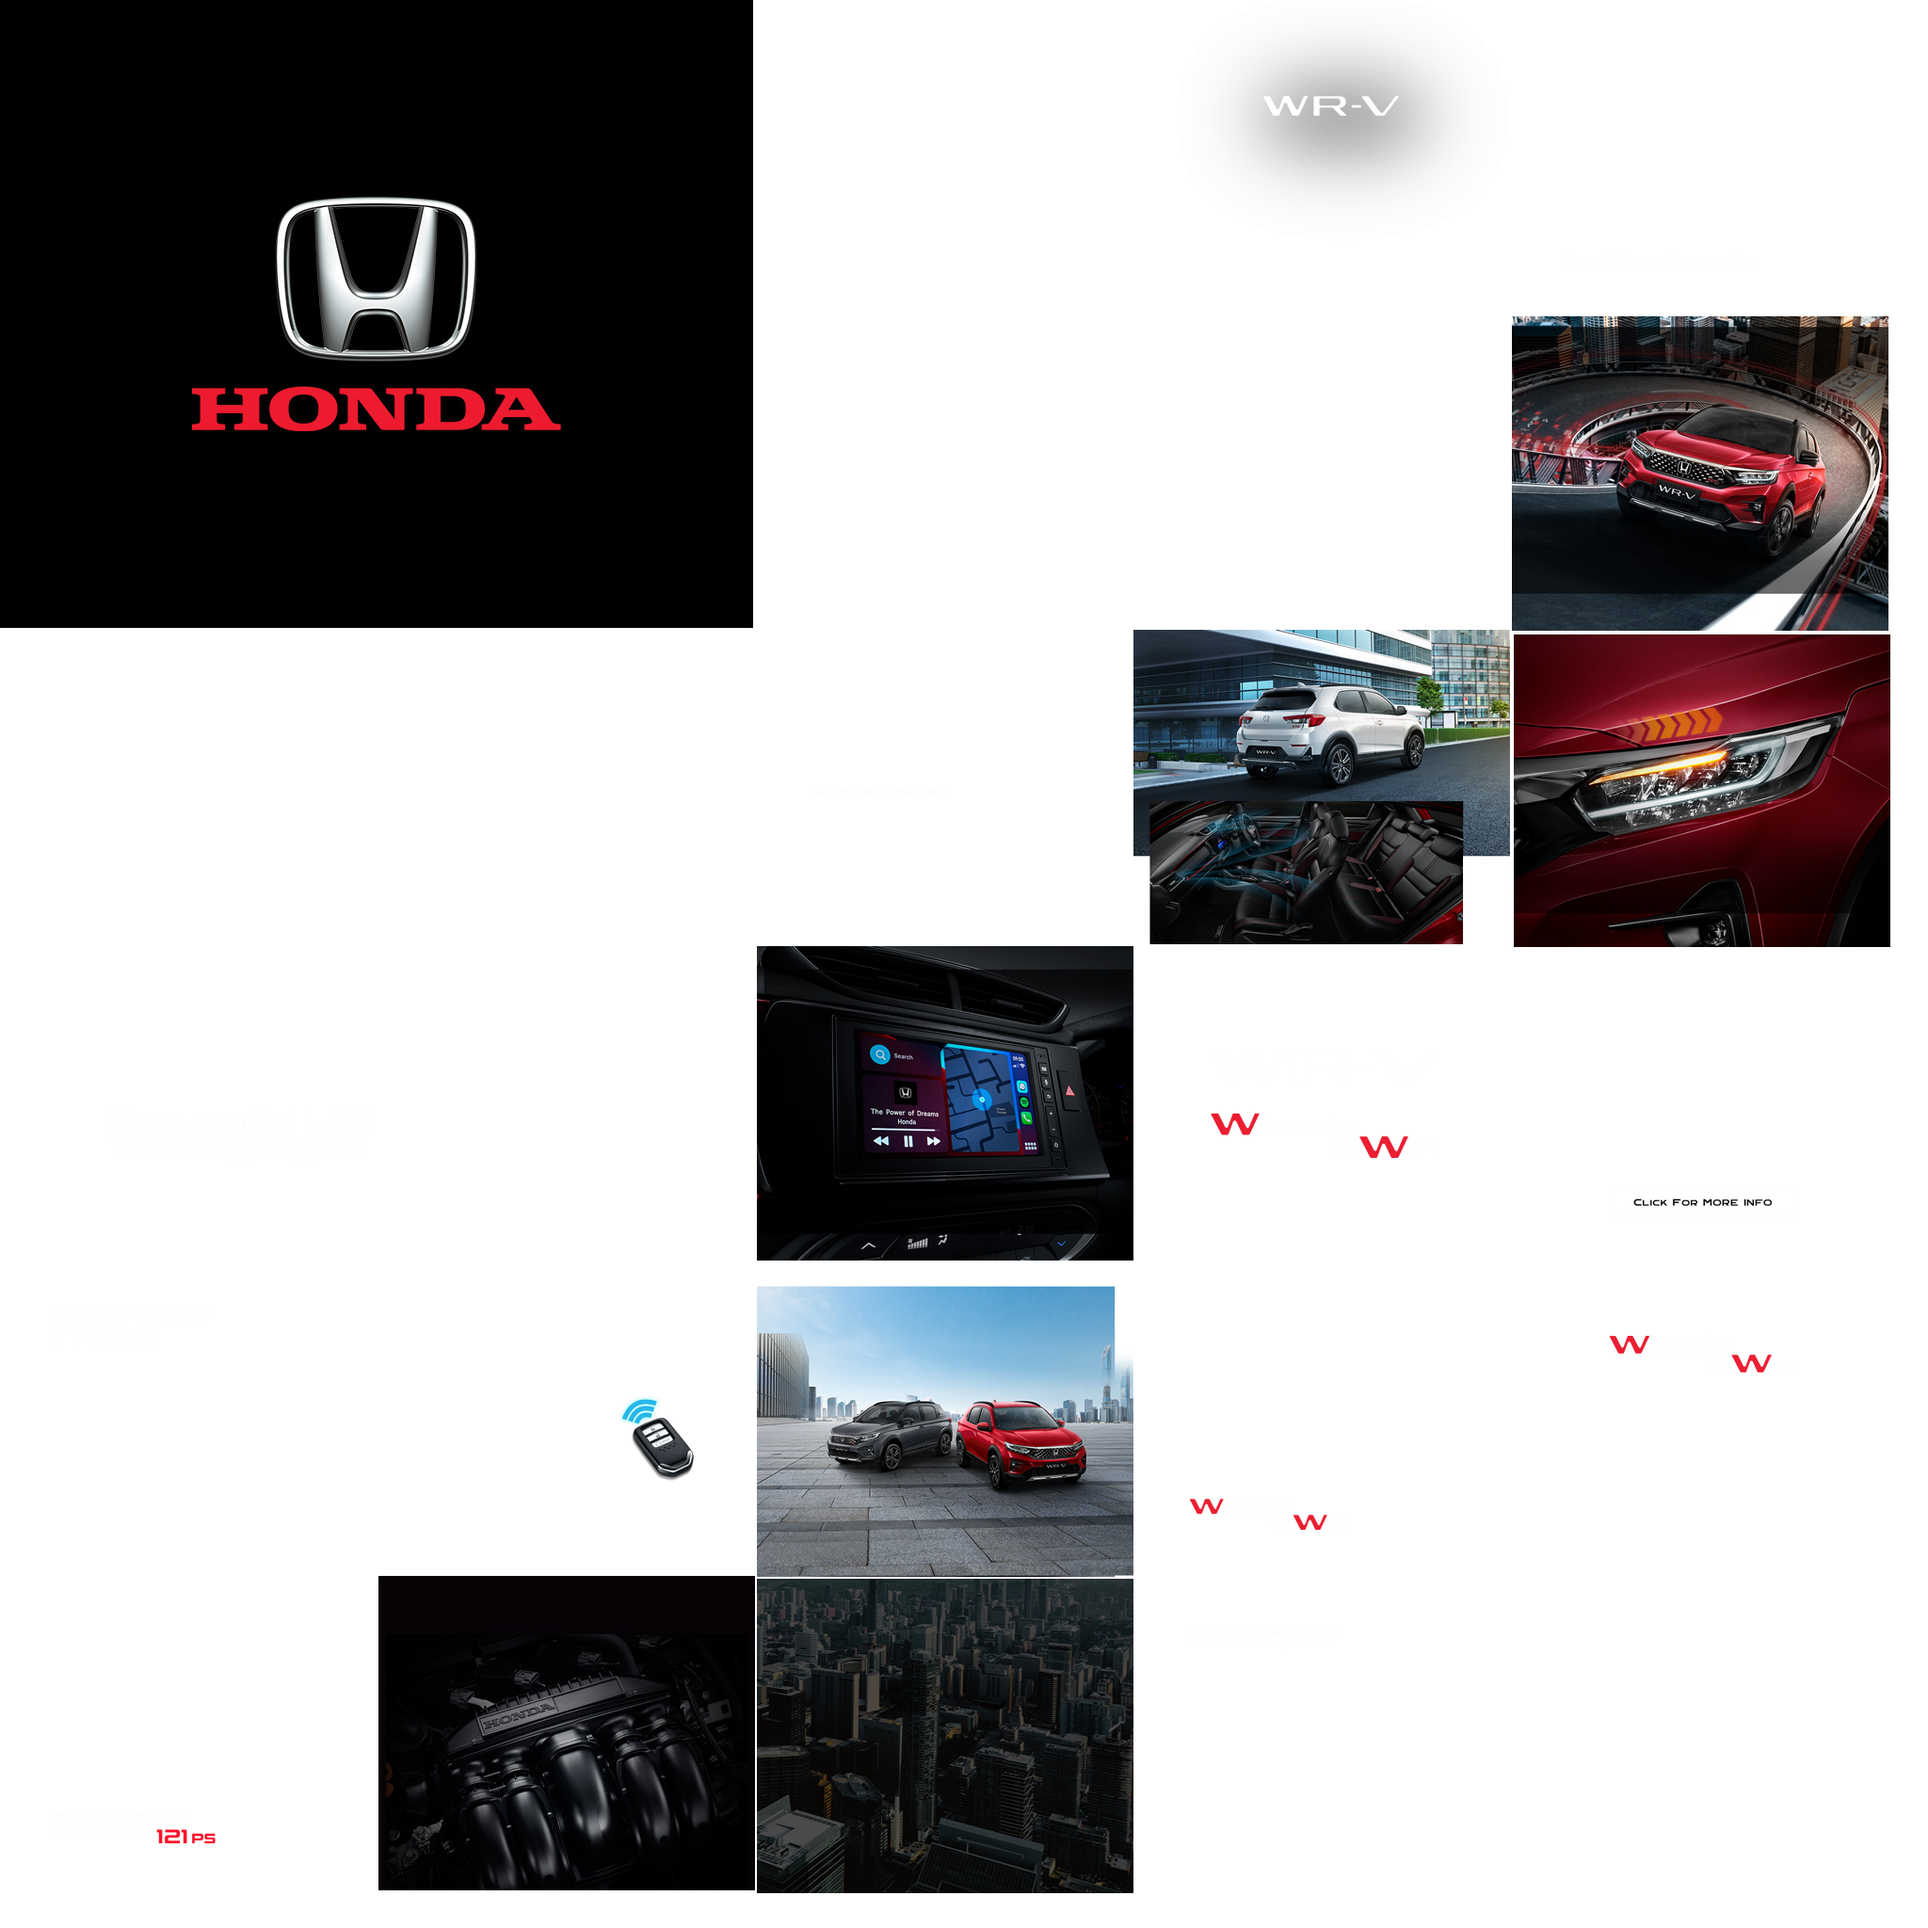
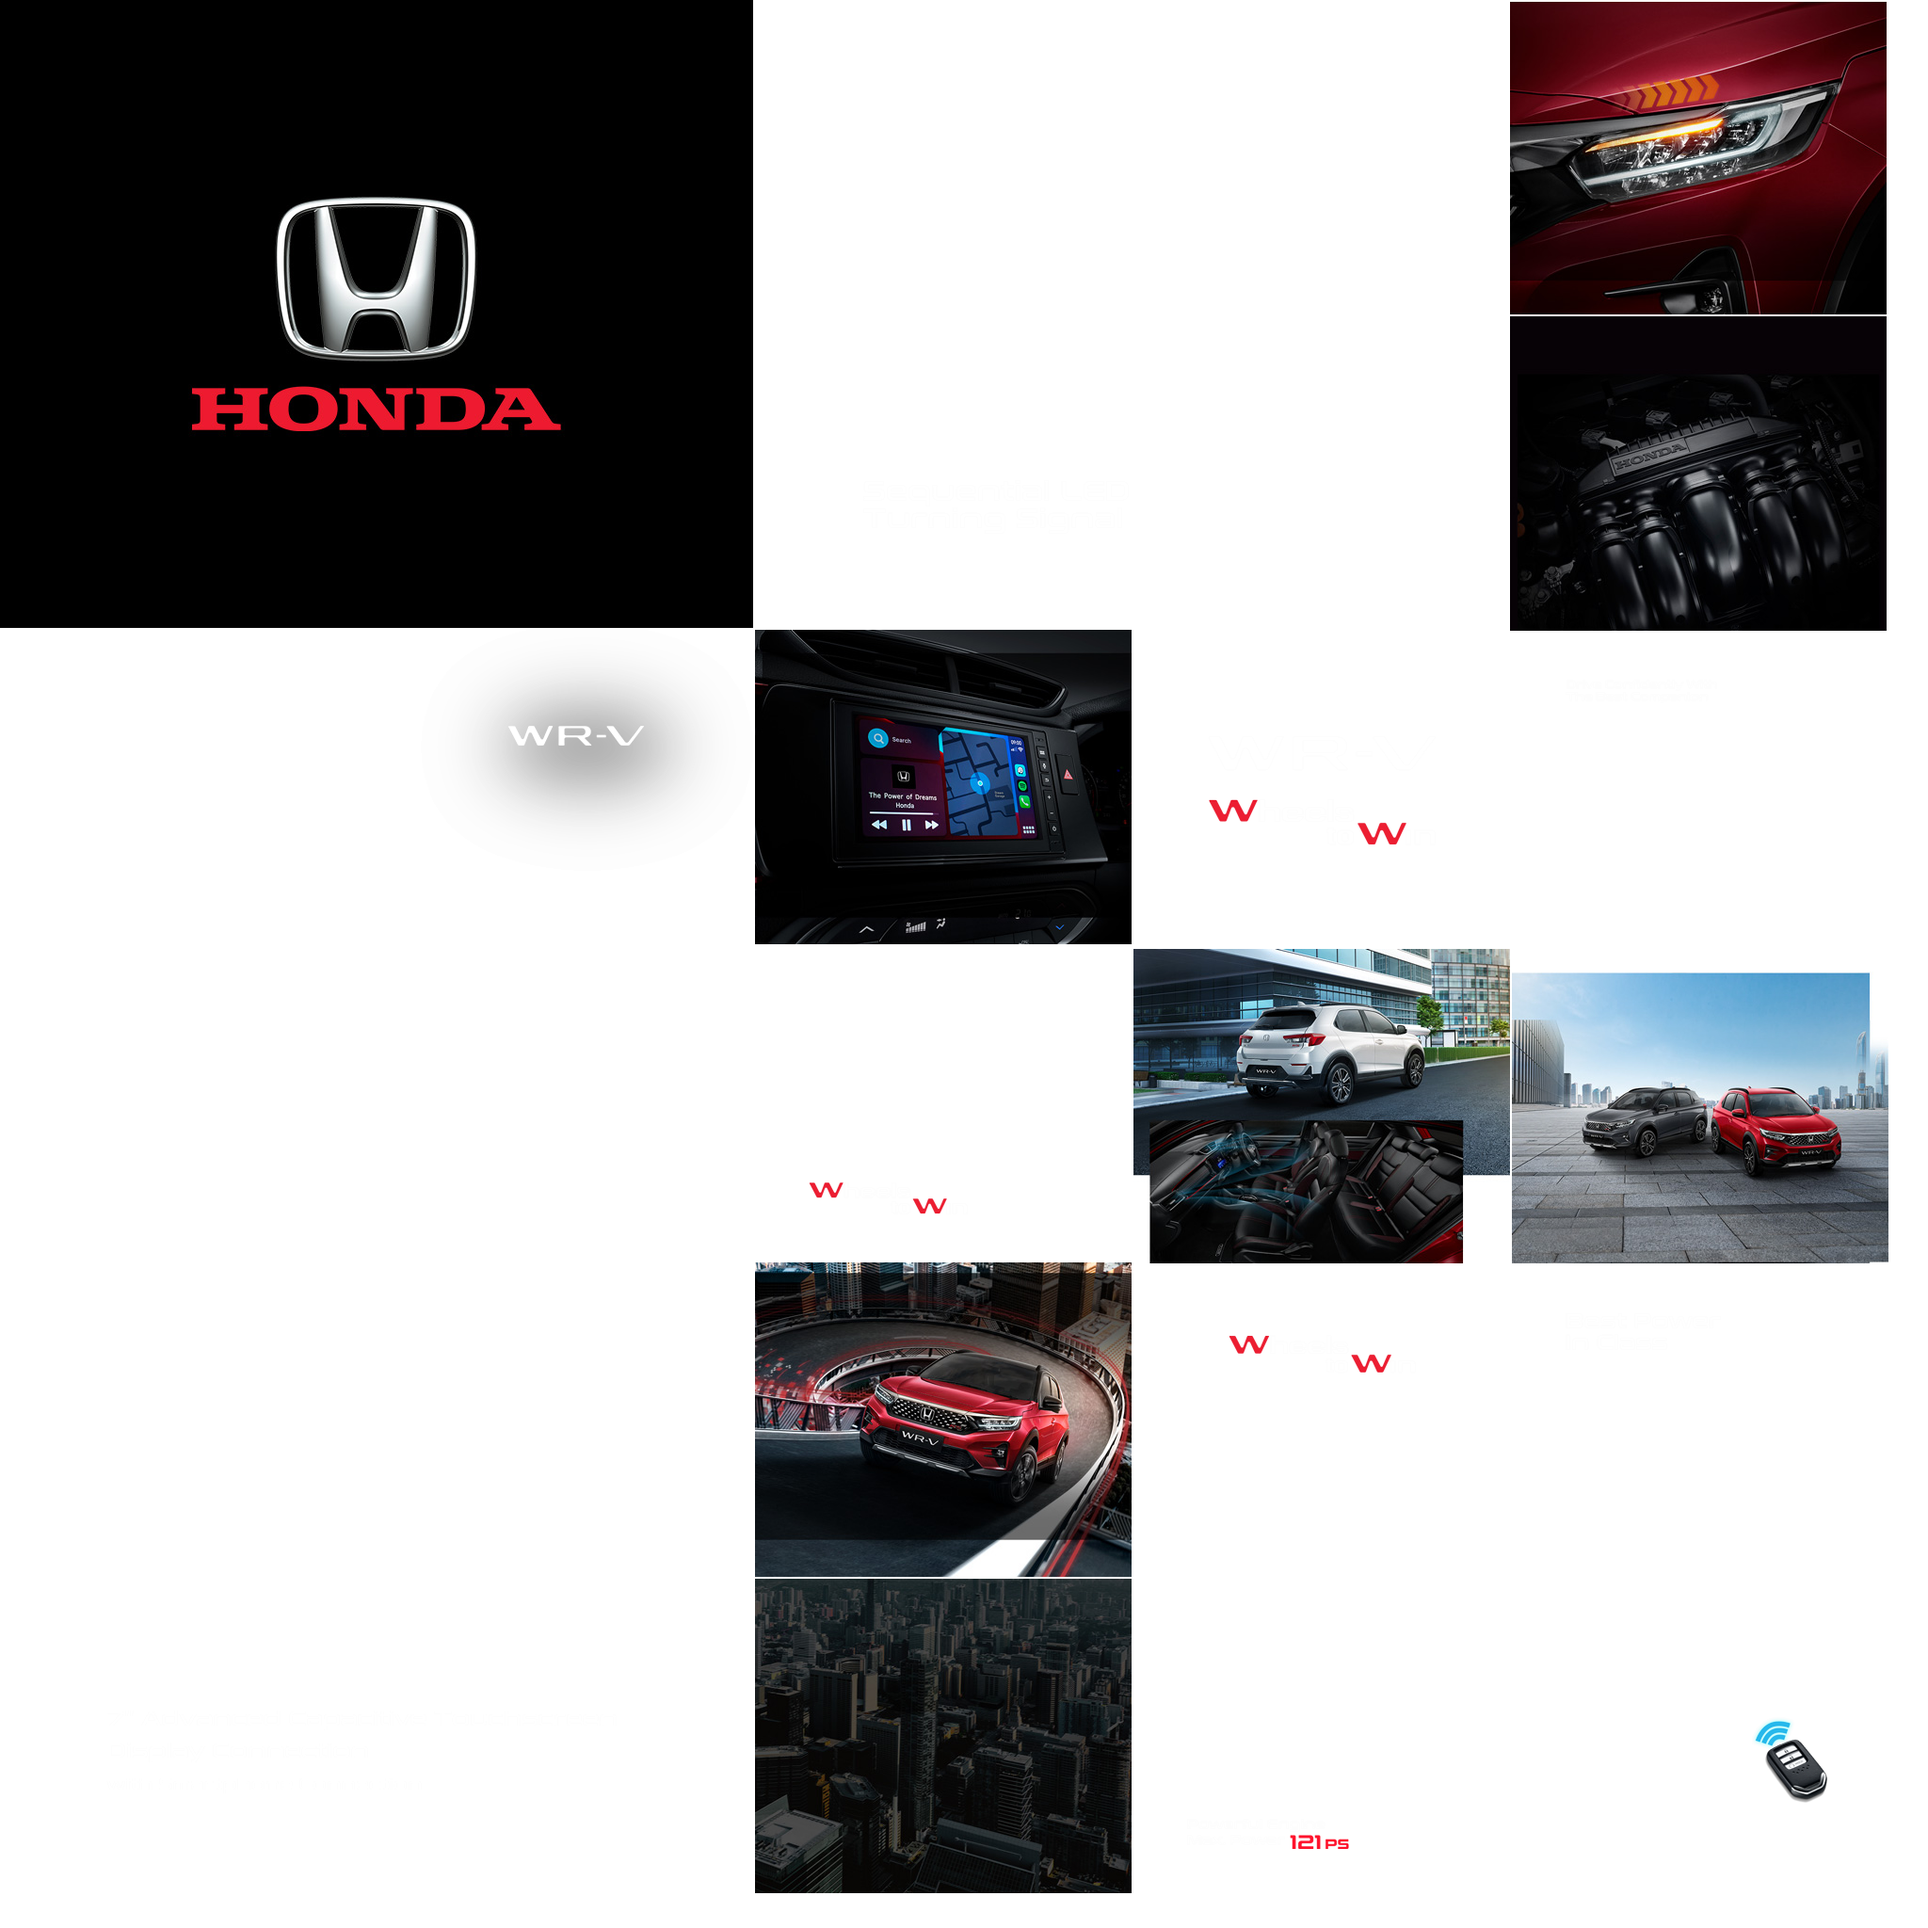
wad

diff --git a/m.idntimes/inarticle/honda/300x250/index.js b/m.idntimes/inarticle/honda/300x250/index.js
@@ -3,7 +3,8 @@
 var p; // shortcut to reference prototypes
 var lib={};var ss={};var img={};
 lib.ssMetadata = [
-		{name:"index_atlas_", frames: [[804,1677,400,334],[1606,336,400,334],[1608,672,400,334],[402,1674,400,334],[1204,669,400,334],[804,1005,400,334],[804,1341,400,334],[0,0,800,667],[1206,1005,400,334],[1206,1341,400,334],[1206,1677,400,334],[0,669,800,667],[0,1338,400,334],[0,1674,400,334],[402,1338,400,334],[802,669,400,334],[1604,0,400,334],[1608,1344,400,334],[1608,1008,400,334],[802,0,800,667]]}
+		{name:"index_atlas_", frames: [[802,1677,400,334],[802,1341,400,334],[1604,0,400,334],[1604,336,400,334],[1204,1008,400,334],[802,669,400,334],[1606,1008,400,334],[0,0,800,667],[1204,672,400,334],[802,1005,400,334],[1606,672,400,334],[802,0,800,667],[1606,1344,400,334],[1204,1680,400,334],[1606,1680,400,334],[0,1338,800,667],[1204,1344,400,334],[0,669,800,667]]},
+		{name:"index_atlas_2", frames: [[0,336,400,334],[0,0,400,334]]}
 ];
 
 
@@ -117,36 +118,36 @@ lib.ssMetadata = [
 
 
 (lib.isi52 = function() {
-	this.initialize(ss["index_atlas_"]);
-	this.gotoAndStop(15);
+	this.initialize(ss["index_atlas_2"]);
+	this.gotoAndStop(0);
 }).prototype = p = new cjs.Sprite();
 
 
 
 (lib.isi6 = function() {
 	this.initialize(ss["index_atlas_"]);
-	this.gotoAndStop(16);
+	this.gotoAndStop(15);
 }).prototype = p = new cjs.Sprite();
 
 
 
 (lib.isi71 = function() {
 	this.initialize(ss["index_atlas_"]);
-	this.gotoAndStop(17);
+	this.gotoAndStop(16);
 }).prototype = p = new cjs.Sprite();
 
 
 
 (lib.isi72 = function() {
-	this.initialize(ss["index_atlas_"]);
-	this.gotoAndStop(18);
+	this.initialize(ss["index_atlas_2"]);
+	this.gotoAndStop(1);
 }).prototype = p = new cjs.Sprite();
 
 
 
 (lib.logo = function() {
 	this.initialize(ss["index_atlas_"]);
-	this.gotoAndStop(19);
+	this.gotoAndStop(17);
 }).prototype = p = new cjs.Sprite();
 
 
@@ -274,7 +275,7 @@ p.nominalBounds = new cjs.Rectangle(-200,-166.7,400,333.5);
 	this.timeline.addTween(cjs.Tween.get(this.instance).wait(1));
 
 }).prototype = p = new cjs.MovieClip();
-p.nominalBounds = new cjs.Rectangle(-200,-167,400,334);
+p.nominalBounds = new cjs.Rectangle(-200,-167,800,667);
 
 
 (lib.Tween29 = function(mode,startPosition,loop) {
@@ -288,7 +289,7 @@ p.nominalBounds = new cjs.Rectangle(-200,-167,400,334);
 	this.timeline.addTween(cjs.Tween.get(this.instance).wait(1));
 
 }).prototype = p = new cjs.MovieClip();
-p.nominalBounds = new cjs.Rectangle(-200,-167,400,334);
+p.nominalBounds = new cjs.Rectangle(-200,-167,800,667);
 
 
 (lib.Tween28 = function(mode,startPosition,loop) {
@@ -838,15 +839,15 @@ p.nominalBounds = new cjs.Rectangle(-200,-167,400,334);
 	// isi6
 	this.instance = new lib.Tween29("synched",0);
 	this.instance.parent = this;
-	this.instance.setTransform(-66.1,125);
+	this.instance.setTransform(-237.9,41.5,0.5,0.5);
 	this.instance._off = true;
 
 	this.instance_1 = new lib.Tween30("synched",0);
 	this.instance_1.parent = this;
-	this.instance_1.setTransform(150,125);
+	this.instance_1.setTransform(50,41.75,0.5,0.5);
 
 	this.timeline.addTween(cjs.Tween.get({}).to({state:[]}).to({state:[{t:this.instance}]},216).to({state:[{t:this.instance_1}]},6).wait(38));
-	this.timeline.addTween(cjs.Tween.get(this.instance).wait(216).to({_off:false},0).to({_off:true,x:150},6).wait(38));
+	this.timeline.addTween(cjs.Tween.get(this.instance).wait(216).to({_off:false},0).to({_off:true,x:50,y:41.75},6).wait(38));
 
 }).prototype = p = new cjs.MovieClip();
 
@@ -1378,7 +1379,7 @@ p.nominalBounds = new cjs.Rectangle(-200,-167,400,334);
 	this.timeline.addTween(cjs.Tween.get(this.bg1).wait(44).to({_off:true},1).wait(318));
 
 }).prototype = p = new cjs.MovieClip();
-p.nominalBounds = new cjs.Rectangle(-116.1,41,484.5,281.2);
+p.nominalBounds = new cjs.Rectangle(-187.9,41,556.3,281.2);
 // library properties:
 lib.properties = {
 	id: 'AC6AE21C97769E47A8030AC3D803ACC8',
@@ -1388,7 +1389,8 @@ lib.properties = {
 	color: "#FFFFFF",
 	opacity: 1.00,
 	manifest: [
-		{src:"images/index_atlas_.png", id:"index_atlas_"}
+		{src:"images/index_atlas_.png", id:"index_atlas_"},
+		{src:"images/index_atlas_2.png", id:"index_atlas_2"}
 	],
 	preloads: []
 };
